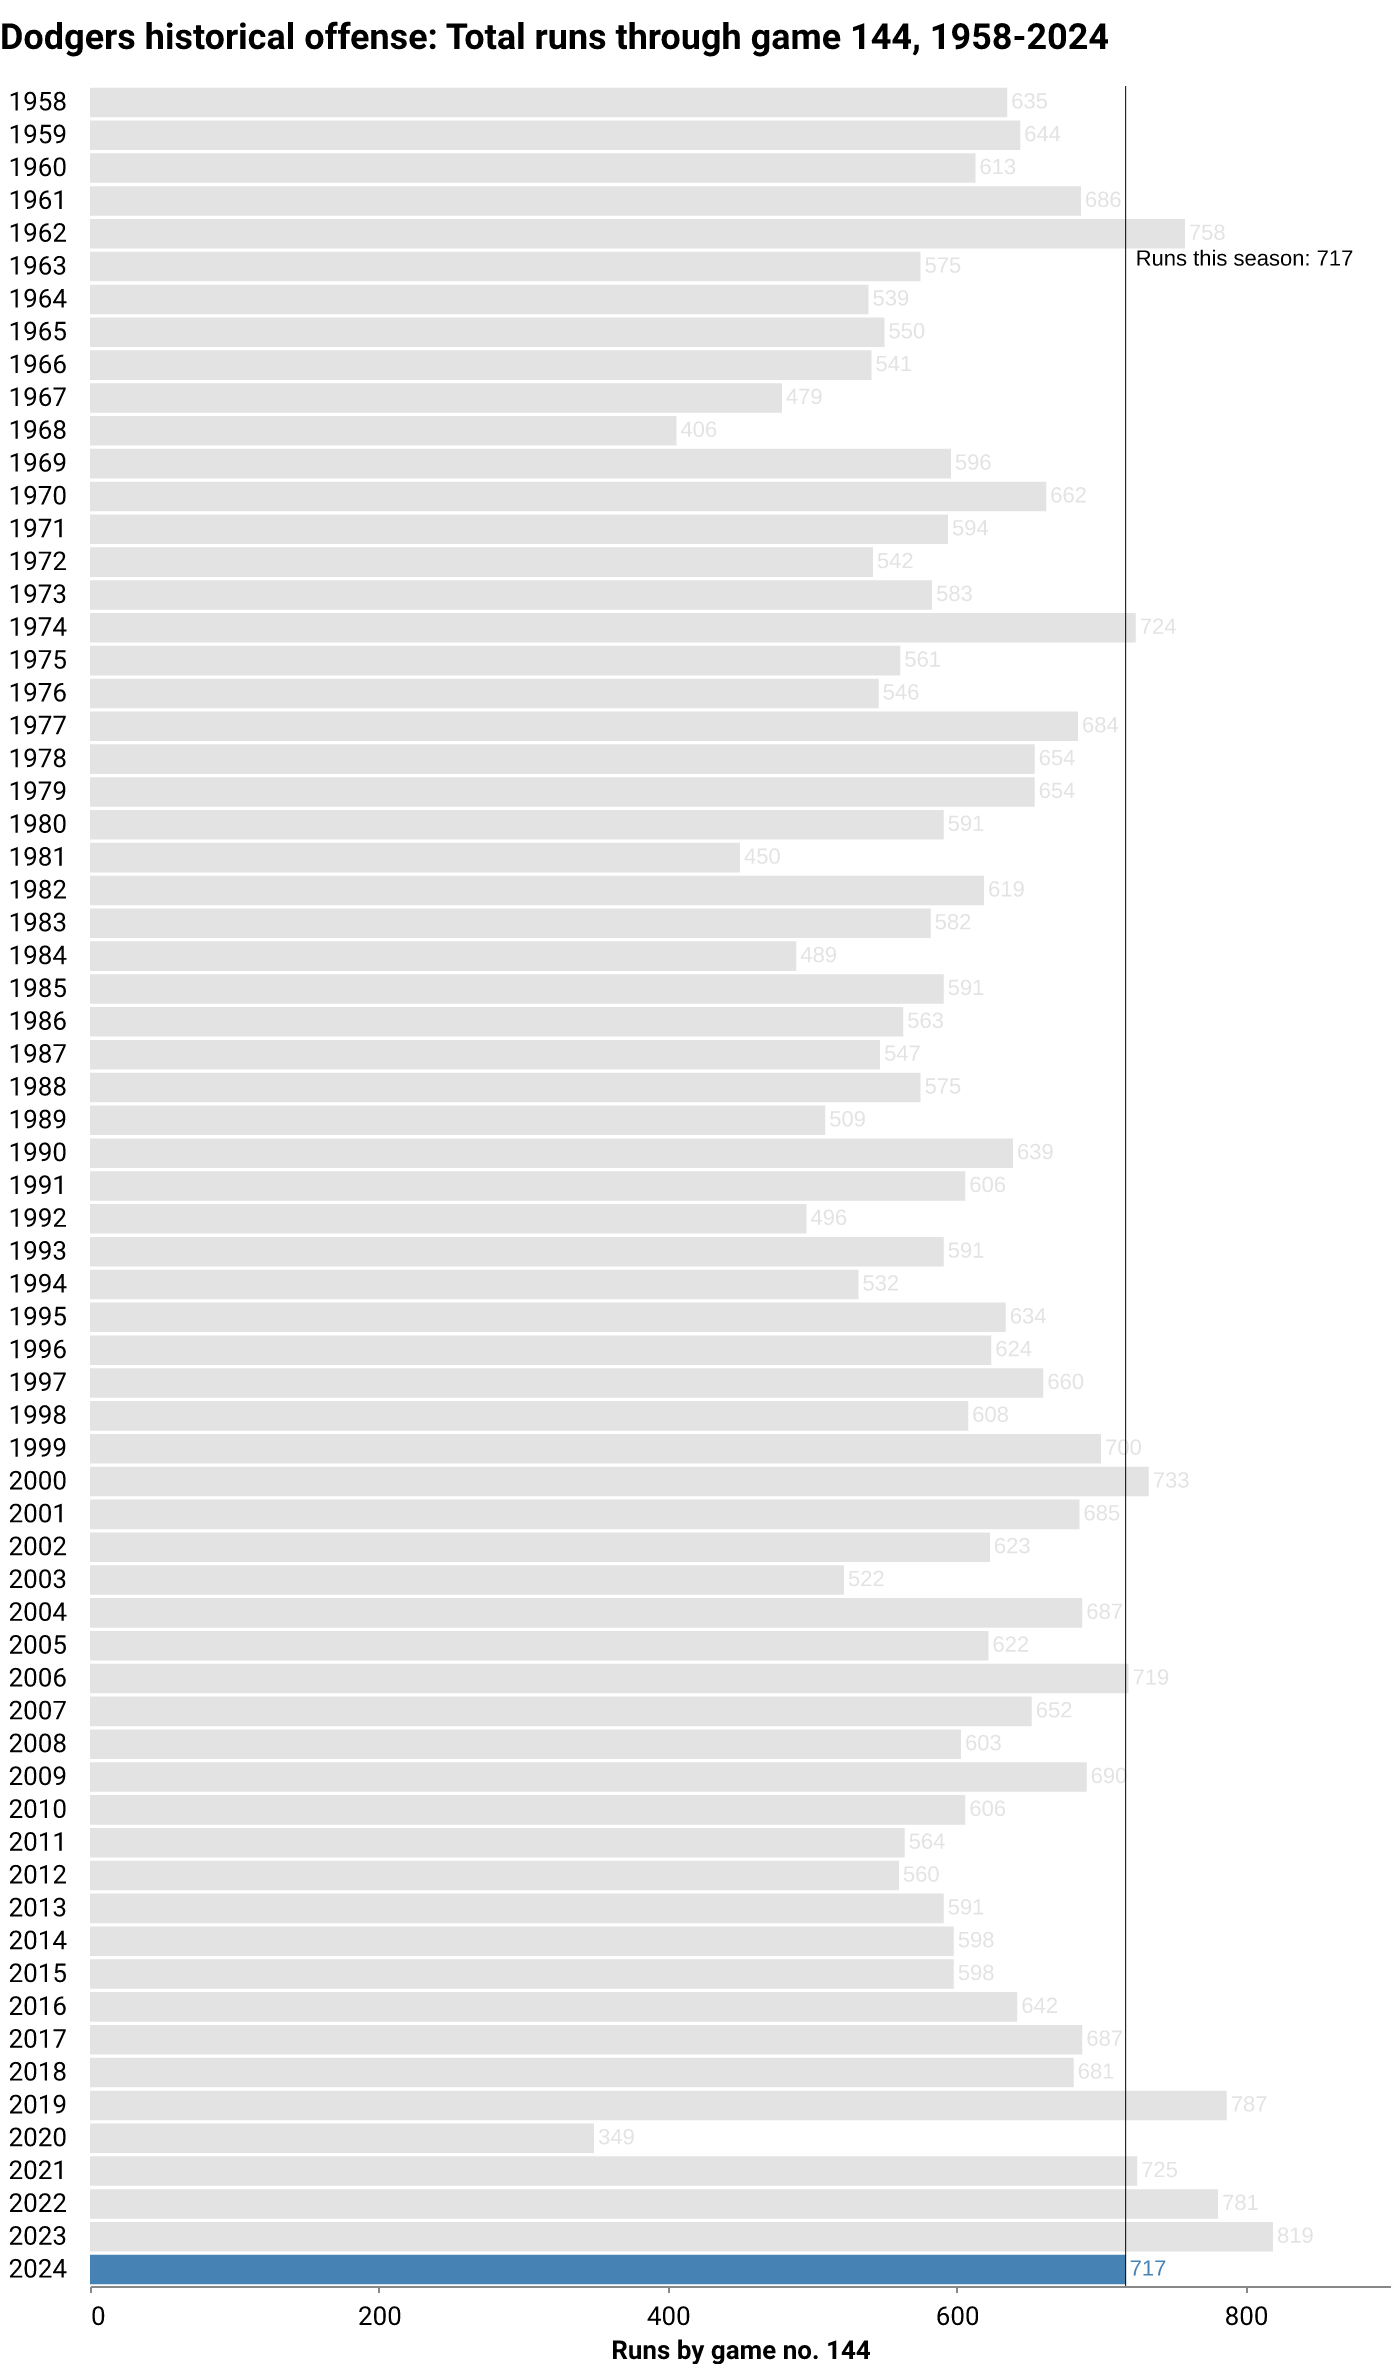
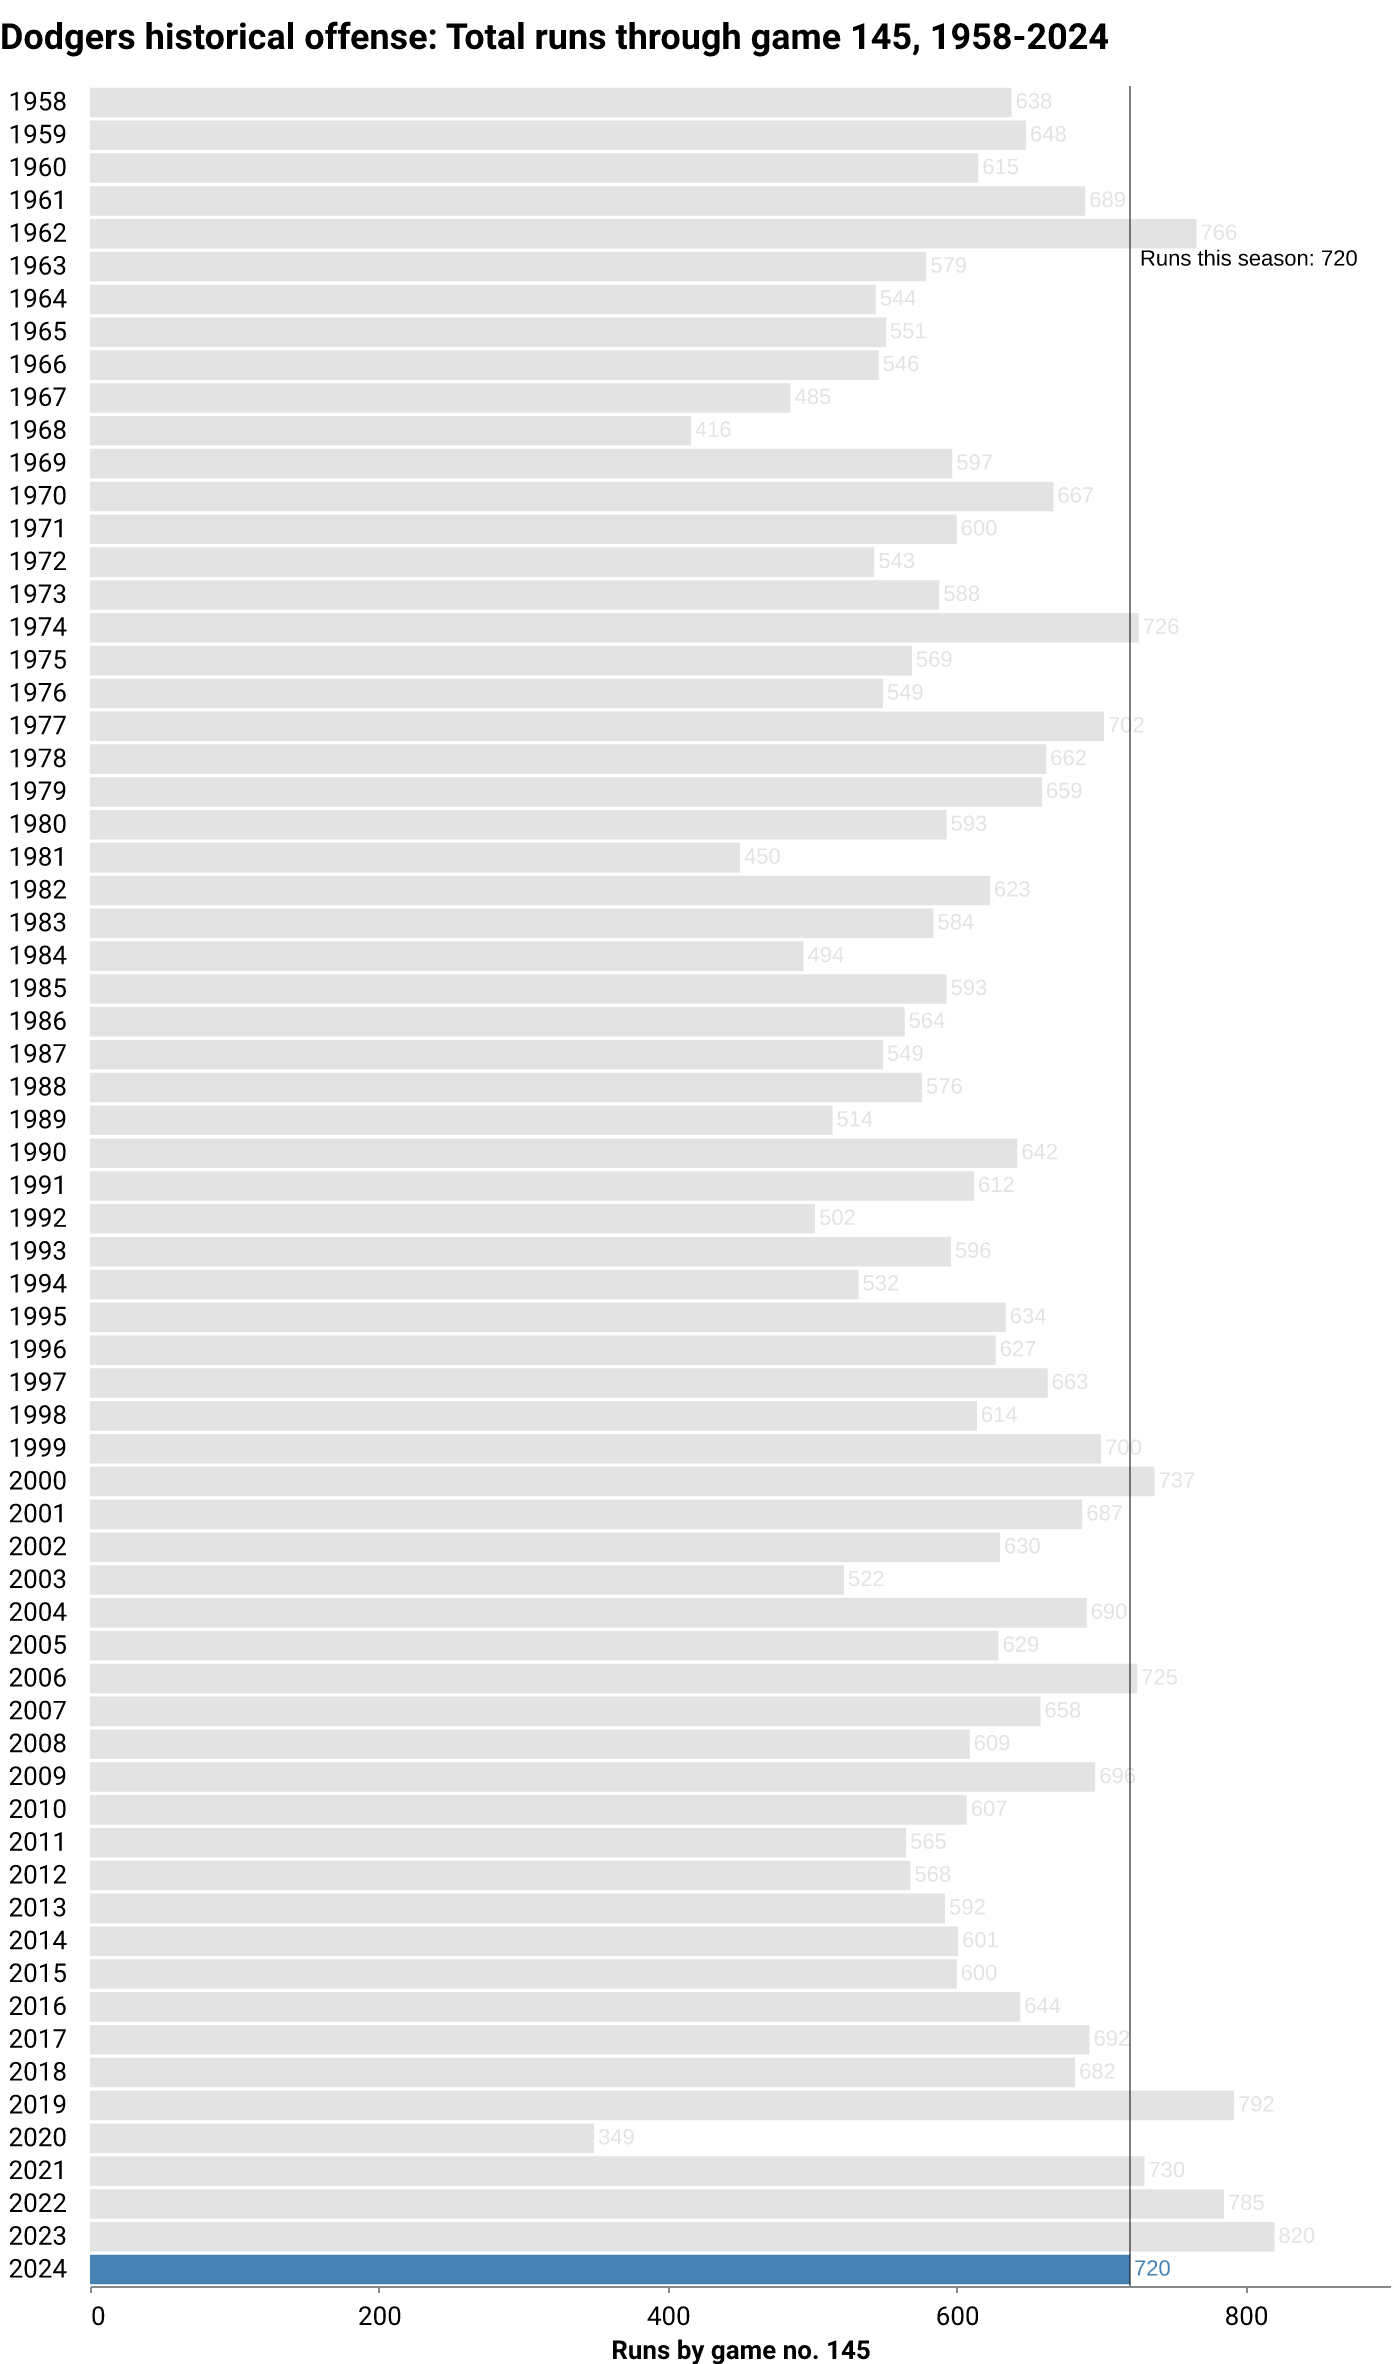
deploy: 4f95dfb9491a79fbc8ab859eaec6cf1ebe0d604e

diff --git a/index.html b/index.html
@@ -184,7 +184,7 @@
 <p class="subhead">
     
     
-    <span class="highlight">LOS ANGELES</span> <span class="updated">(September 11)</span> — After <span class="highlight">144</span> games this season, the Dodgers are in <span class="highlight">1st</span> place in the National League West division. The team has compiled a <span class="highlight">86-58</span> record, winning <span class="highlight">60%</span> of its games so far. The last game was a <span class="highlight">4-10</span> home <span class="highlight">loss</span> against the Chicago Cubs in front of <span class="highlight">50,495</span> fans. They've won <span class="highlight">6 of the last 10</span>.
+    <span class="highlight">LOS ANGELES</span> <span class="updated">(September 11)</span> — After <span class="highlight">145</span> games this season, the Dodgers are in <span class="highlight">1st</span> place in the National League West division. The team has compiled a <span class="highlight">86-59</span> record, winning <span class="highlight">59%</span> of its games so far. The last game was a <span class="highlight">3-6</span> home <span class="highlight">loss</span> against the Chicago Cubs in front of <span class="highlight">51,923</span> fans. They've won <span class="highlight">5 of the last 10</span>.
 </p>
 </div>
 
@@ -222,10 +222,10 @@
             Losses
           </div>
           <div class="card-body">
-            <p class="card-text">58</p>
+            <p class="card-text">59</p>
           </div>
           <div class="card-footer text-muted">
-        This point last season: 56
+        This point last season: 57
           </div>
         </div>
       </div>
@@ -238,10 +238,10 @@
             Record
           </div>
           <div class="card-body">
-            <p class="card-text">86-58</p>
+            <p class="card-text">86-59</p>
           </div>
           <div class="card-footer text-muted">
-        This point last season: 88-56
+        This point last season: 88-57
           </div>
         </div>
       </div>
@@ -254,7 +254,7 @@
             Win percentage
           </div>
           <div class="card-body">
-            <p class="card-text">60%</p>
+            <p class="card-text">59%</p>
           </div>
           <div class="card-footer text-muted">
         This point last season: 61%
@@ -270,7 +270,7 @@
             Games up/back
           </div>
           <div class="card-body">
-            <p class="card-text">5.5</p>
+            <p class="card-text">4.5</p>
           </div>
           <div class="card-footer text-muted">
         Division rank: 1
@@ -286,10 +286,10 @@
             Avg. home attendance
           </div>
           <div class="card-body">
-            <p class="card-text">48,403</p>
+            <p class="card-text">48,451</p>
           </div>
           <div class="card-footer text-muted">
-        Home games this season: 73
+        Home games this season: 74
           </div>
         </div>
       </div>
@@ -302,7 +302,7 @@
             Runs
           </div>
           <div class="card-body">
-            <p class="card-text">717</p>
+            <p class="card-text">720</p>
           </div>
           <div class="card-footer text-muted">
         League rank: 2
@@ -318,10 +318,10 @@
             Runs against
           </div>
           <div class="card-body">
-            <p class="card-text">604</p>
+            <p class="card-text">610</p>
           </div>
           <div class="card-footer text-muted">
-        This point last season: 641
+        This point last season: 647
           </div>
         </div>
       </div>
@@ -334,10 +334,10 @@
             Run differential
           </div>
           <div class="card-body">
-            <p class="card-text">113</p>
+            <p class="card-text">110</p>
           </div>
           <div class="card-footer text-muted">
-        This point last season: 178
+        This point last season: 173
           </div>
         </div>
       </div>
@@ -424,7 +424,7 @@
             Home runs
           </div>
           <div class="card-body">
-            <p class="card-text">196</p>
+            <p class="card-text">199</p>
           </div>
           <div class="card-footer text-muted">
         League rank: 1
@@ -440,7 +440,7 @@
             Home runs/game
           </div>
           <div class="card-body">
-            <p class="card-text">1.36</p>
+            <p class="card-text">1.37</p>
           </div>
           <div class="card-footer text-muted">
         Last decade average: 1.36
@@ -605,7 +605,7 @@
             Strikeouts
           </div>
           <div class="card-body">
-            <p class="card-text">1226</p>
+            <p class="card-text">1236</p>
           </div>
           <div class="card-footer text-muted">
         League rank: 7
@@ -621,7 +621,7 @@
             Walks
           </div>
           <div class="card-body">
-            <p class="card-text">432</p>
+            <p class="card-text">434</p>
           </div>
           <div class="card-footer text-muted">
         League rank: 8
@@ -637,7 +637,7 @@
             ERA
           </div>
           <div class="card-body">
-            <p class="card-text">3.86</p>
+            <p class="card-text">3.85</p>
           </div>
           <div class="card-footer text-muted">
         League rank: 5
@@ -716,7 +716,7 @@
     </div>
 </div>
 
-  <p class="dated">Notes: Last updated September 11, 2024, 12:03 AM PT. More <a href="https://github.com/stiles/dodgers/blob/main/README.md">about the data</a>.</p>
+  <p class="dated">Notes: Last updated September 11, 2024, 4:03 AM PT. More <a href="https://github.com/stiles/dodgers/blob/main/README.md">about the data</a>.</p>
   
 </div>
 
